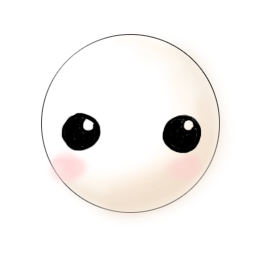
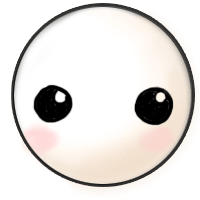
compress images

diff --git a/js/game.js b/js/game.js
@@ -13,9 +13,9 @@ function init() {
     
     createjs.Touch.enable(stage);
     
-    // grab canvas width and height for later calculations
     w = stage.canvas.width;
     h = stage.canvas.height;
+    hh = h*9/10;
 
     manifest = [
         {src: "sheep.png", id: "sheep"},
@@ -35,27 +35,26 @@ function handleComplete() {
 
     background = new createjs.Bitmap(loader.getResult("background"));
     background.setTransform(0,0, w / background.image.width, h / background.image.height);
-    background.alpha = 0.9;
 
     sheep = new createjs.Bitmap(loader.getResult("sheep"));
-    sheep.desireX=w/5;
+    sheep.desireX=w/3.5;
     sheep.desireY=sheep.desireX;
     sheep.scaleX=sheep.desireX / sheep.image.width;
     sheep.scaleY=sheep.scaleX;
     sheep.regX=sheep.image.width / 2;
     sheep.regY=sheep.image.height;
     sheep.x=w/2;
-    sheep.y=h-1;
+    sheep.y=hh-1;
 
     ball = new createjs.Bitmap(loader.getResult("ball1"));
-    ball.desireX=sheep.desireX/1.3;
+    ball.desireX=sheep.desireX*0.75;
     ball.desireY=ball.desireX;
     ball.scaleX=ball.desireX / ball.image.width;
     ball.scaleY=ball.scaleX;
     ball.regX=ball.image.width / 2;
     ball.regY=ball.image.height;
     ball.x=w/2;
-    ball.y=h/2;
+    ball.y=hh*2/3;
     ball.visible = true;
 
     superball = new createjs.Bitmap(loader.getResult("ball2"));
@@ -66,7 +65,7 @@ function handleComplete() {
     superball.regX=ball.image.width / 2;
     superball.regY=ball.image.height;
     superball.x=w/2;
-    superball.y=h/2;
+    superball.y=hh/2;
     superball.visible = false;
 
     createjs.Ticker.framerate = 60;
@@ -93,15 +92,15 @@ function gameover() {
 function setPhysics() {
     sheep.v = 0;
     sheep.state="up";
-    sheep.maxHeight = h - sheep.desireX/1.3;
-    sheep.criticalH = h - sheep.desireX/1.34;
-    sheep.initV = sheep.maxHeight / (createjs.Ticker.framerate * 1.2);
+    sheep.maxHeight = hh - sheep.desireX * 0.4;
+    sheep.criticalH = hh - sheep.desireX * 0.08;
+    sheep.initV = sheep.maxHeight / (createjs.Ticker.framerate * 2.2);
     sheep.v=sheep.initV;
 
-    ball.maxHeight = h/2;
-    ball.initV = sheep.initV * 2.6;
-    ball.superV = ball.initV * 1.8;
-    ball.a = ball.initV * ball.initV / (2 * ball.maxHeight);
+    ball.maxHeight = hh/3;
+    ball.initV = sheep.initV * 2.5;
+    ball.superV = ball.initV * 2.2;
+    ball.a = 2 * ball.initV * ball.initV / (2 * ball.maxHeight);
     ball.v = -Math.sqrt(2*ball.a*(ball.maxHeight/2));
     ball.state = "down";
 }
@@ -115,26 +114,27 @@ function handleJump() {
 }
 
 function move() {
-    if (ball.state=="down" && ball.y>=sheep.y-sheep.desireY) {
-        if ((sheep.state == "down" || sheep.y>sheep.criticalH)&&sheep.state=="stay") {
+    if (ball.state=="down" && ball.y>=sheep.y-sheep.desireY-20) {
+        if (sheep.state == "down" || sheep.state=="stay") {
             game_ended = true;
-            ball.vx = ball.initV / 8;
+            ball.vx = ball.initV / 3;
             ball.vy = ball.initV / 2;
-        }
-        if (sheep.y<=sheep.criticalH) {
-            ball.state="superUp";
-            ball.v=ball.superV*(1+Math.random()/5);
-            superball.visible = true;
-            ball.visible = false;
-            combo += 1;
-            score_waiting += 10 * combo;
         } else {
-            ball.state = "up";
-            ball.v = ball.initV;
-            superball.visible = false;
-            ball.visible = true; 
-            combo = 0;   
-            score_waiting += 1;   
+            if (sheep.y>sheep.criticalH) {
+                ball.state="superUp";
+                ball.v=ball.superV*(1+Math.random()/5);
+                superball.visible = true;
+                ball.visible = false;
+                combo += 1;
+                score_waiting += 10 * combo;
+            } else {
+                ball.state = "up";
+                ball.v = ball.initV;
+                superball.visible = false;
+                ball.visible = true; 
+                combo = 0;   
+                score_waiting += 1;   
+            }
         }
     }
 
@@ -149,7 +149,7 @@ function move() {
         sheep.state="down";
         sheep.v=-sheep.initV;
     }
-    if (sheep.state=="down" && sheep.y>=h-1) {
+    if (sheep.state=="down" && sheep.y>=hh) {
         sheep.state="stay";
         sheep.v=0;
     }    
@@ -157,7 +157,8 @@ function move() {
 }
 
 function drop() {
-    if (ball.y<h) {
+
+    if (ball.y<hh+w/10) {
         ball.y-=ball.vy;
         ball.x+=ball.vx;
         ball.vy-=ball.a;    
@@ -167,7 +168,7 @@ function drop() {
 }
 
 function updateScore() {
-    if (score_updateframes < 3) {
+    if (score_updateframes < 4) {
         score_updateframes += 1;
     } else {
         score_updateframes = 0;

diff --git a/index.html b/index.html
@@ -1,8 +1,8 @@
 <!DOCTYPE html>
-<html lang="en">
+<html>
 <head>
 	<meta charset="utf-8" />
-	<title>Heading Yuanxiao</title>
+	<title>顶元宵啦~</title>
 	<link rel="stylesheet" href="css/style.css" type="text/css" />
 	<script src="js/createjs-2014.12.12.min.js" type="text/javascript"></script>
 	<script src="js/game.js" type="text/javascript"></script>
